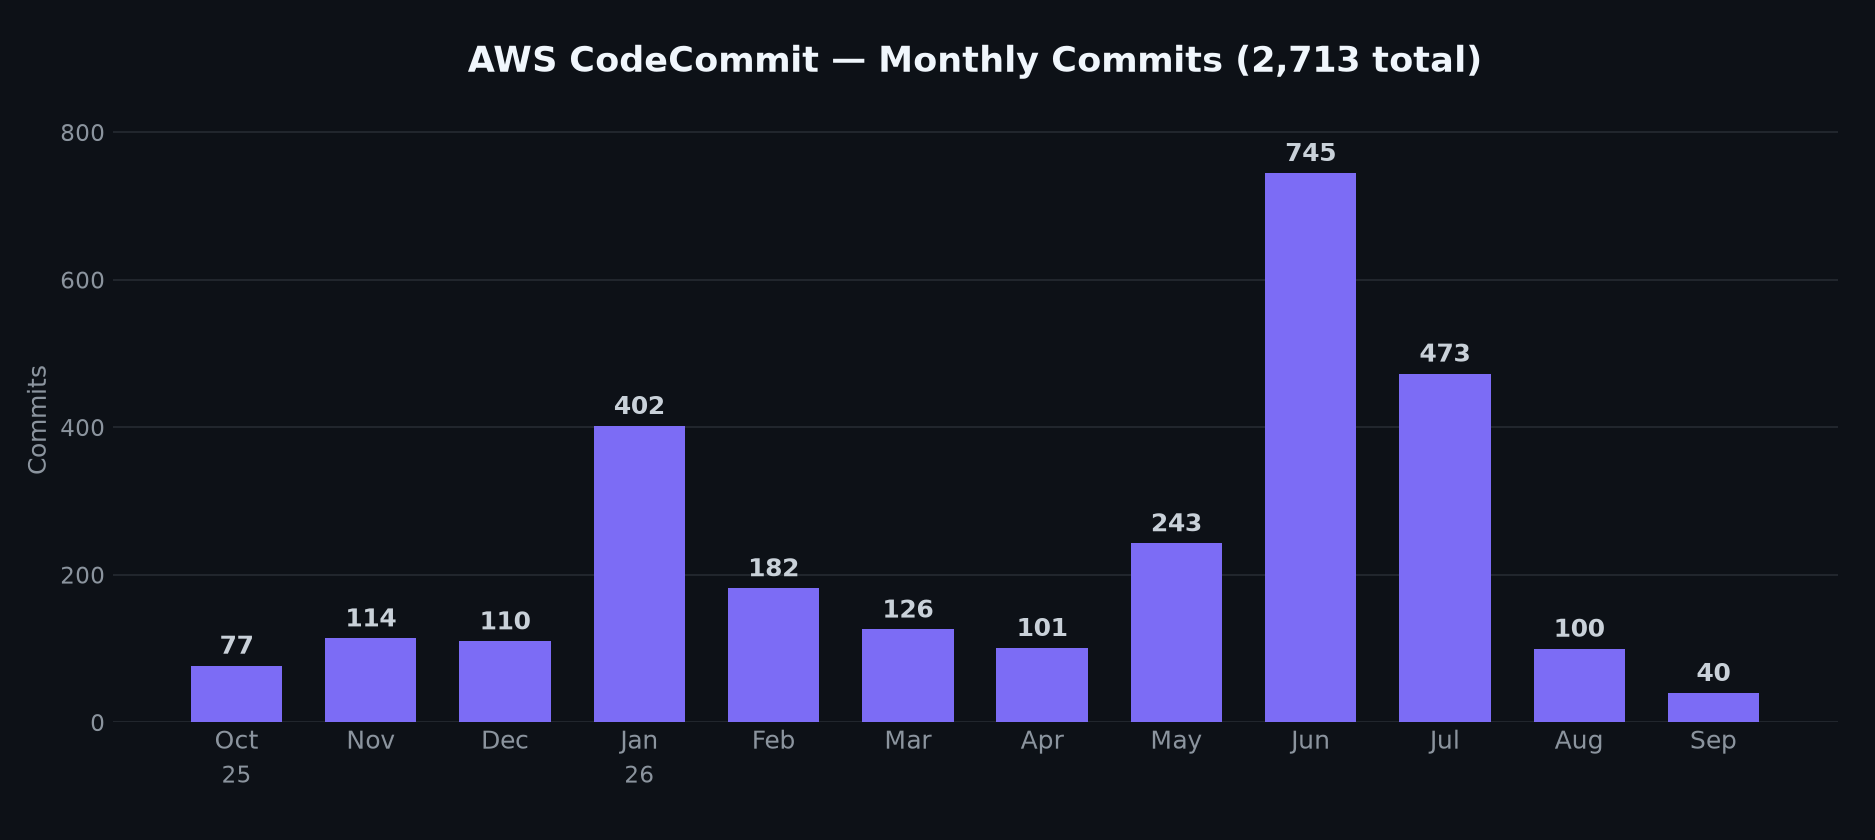
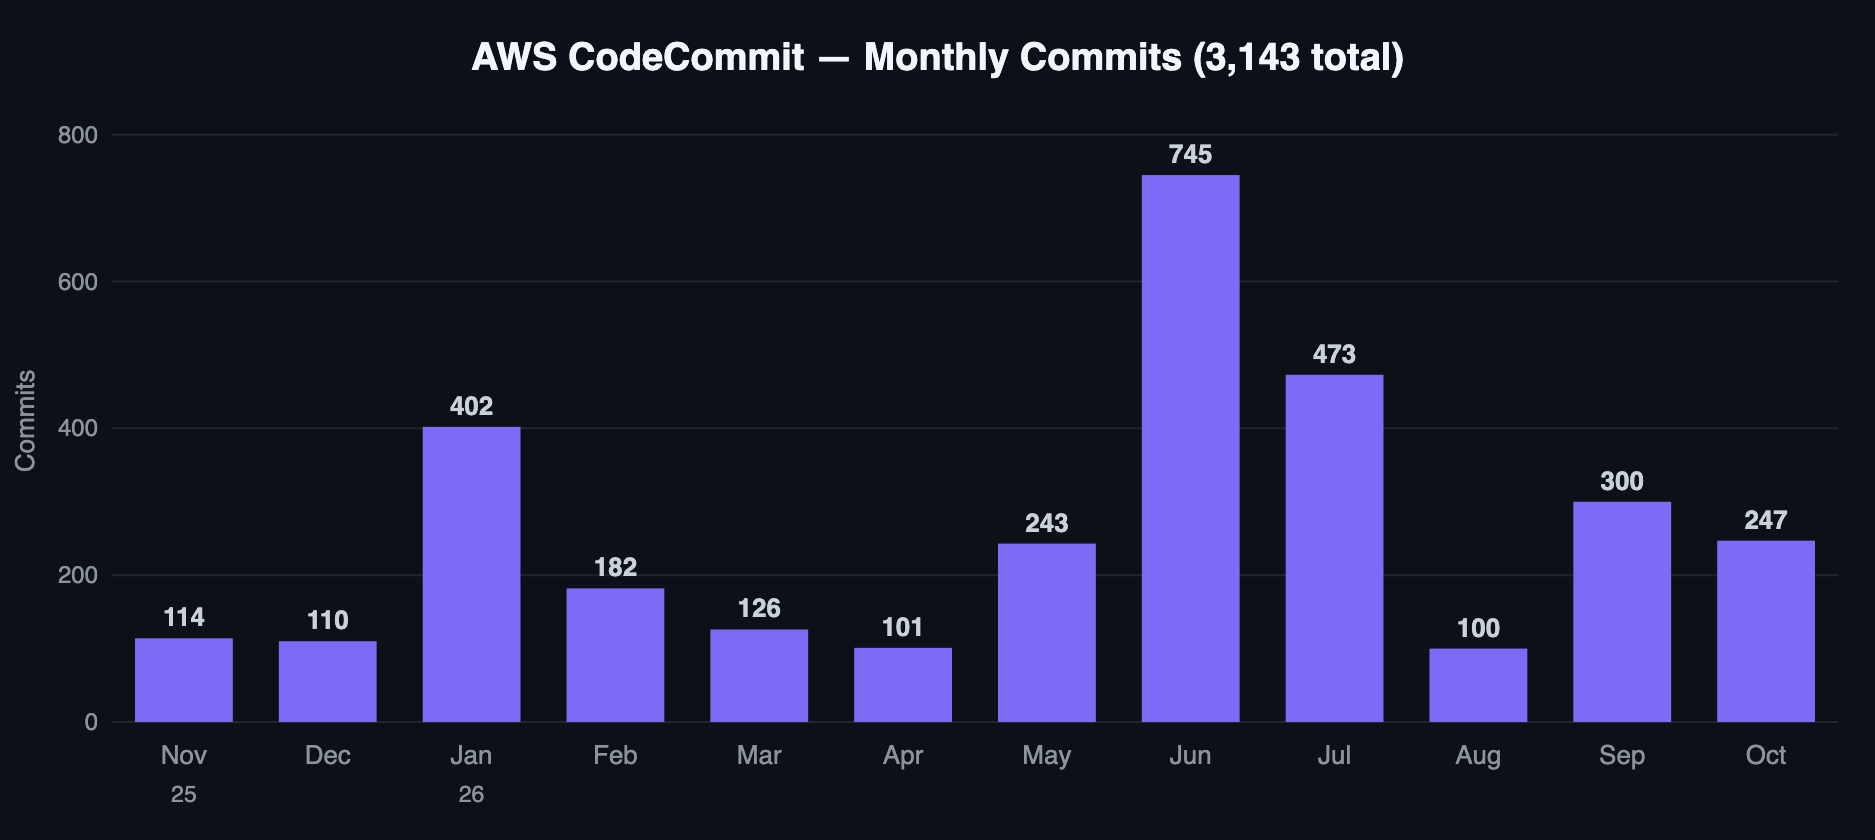
chore: roll AWS chart to Nov 25 - Oct 26 (3,143 commits)

diff --git a/gen-aws-chart.py b/gen-aws-chart.py
@@ -13,9 +13,9 @@ from matplotlib.ticker import MultipleLocator
 
 # rolling 12-month window (oldest -> newest). Advance by dropping the front and
 # appending the newest month(s).
-MONTHS = ["Oct","Nov","Dec","Jan","Feb","Mar","Apr","May","Jun","Jul","Aug","Sep"]
-YEARS  = {0: "25", 3: "26"}          # year caption under Oct 25 and Jan 26
-VALUES = [77, 114, 110, 402, 182, 126, 101, 243, 745, 473, 100, 40]
+MONTHS = ["Nov","Dec","Jan","Feb","Mar","Apr","May","Jun","Jul","Aug","Sep","Oct"]
+YEARS  = {0: "25", 2: "26"}          # year caption under Nov 25 and Jan 26
+VALUES = [114, 110, 402, 182, 126, 101, 243, 745, 473, 100, 300, 247]
 
 BG = "#0d1117"; BAR = "#7c6cf5"; GRID = "#21262d"; TXT = "#c9d1d9"; MUT = "#8b949e"
 total = sum(VALUES)
